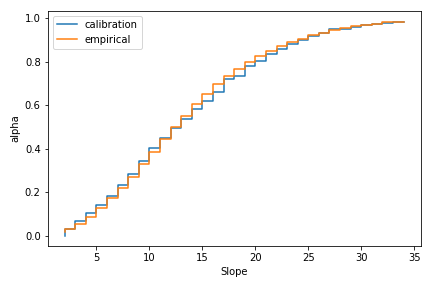
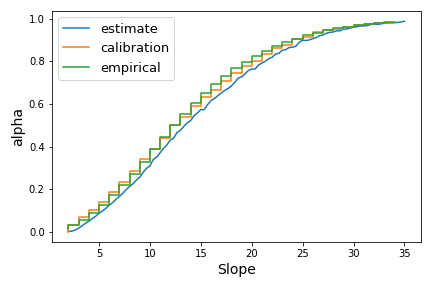
update calibration

diff --git a/calibration.py b/calibration.py
@@ -54,7 +54,7 @@ def get_args(debug):
 #%%
 def main():
     #%%
-    config = vars(get_args(debug=True)) # default configuration
+    config = vars(get_args(debug=False)) # default configuration
     
     """model load"""
     artifact = wandb.use_artifact('anseunghwan/DistVAE/DistVAE_{}:v{}'.format(config["dataset"], config["num"]), type='model')
@@ -125,15 +125,33 @@ def main():
     
     df = base.iloc[:45000] # train
     #%%
-    """Quantile Estimation with sampling mechanism"""
     MC = 5000
-    j = 2
+    
+    """Quantile Estimation with sampling mechanism"""
+    n = 100
+    x_linspace_est = np.linspace(
+        np.quantile(dataset.x_data[:, j], q=0.01),
+        np.quantile(dataset.x_data[:, j], q=0.99),
+        n)
+    
+    # for comparison
+    j = 2 # Slope
+    alpha_est = torch.zeros((len(x_linspace_est), 1))
+    for _ in tqdm.tqdm(range(MC), desc="Estimate CDF..."):
+        randn = torch.randn(len(x_linspace_est), config["latent_dim"]) # prior
+        with torch.no_grad():
+            gamma, beta, _ = model.quantile_parameter(randn)
+            x_tmp = torch.from_numpy(x_linspace_est[:, None]).clone()
+            alpha_tilde = model._quantile_inverse(x_tmp, gamma, beta, j)
+            alpha_est += alpha_tilde
+    alpha_est /= MC
+    
+    x_linspace_est = x_linspace_est * dataset.std[j] + dataset.mean[j]
+    #%%
+    """Calibration Step 1. Estimate F(x + 0.5), F(x - 0.5)"""
     x_linspace = [np.arange(x-0.5, y+0.5, 1) for x, y in zip(
         [np.quantile(df.to_numpy()[:, j], q=0.01)],
         [np.quantile(df.to_numpy()[:, j], q=0.99)])][0]
-    # x_linspace = [np.arange(x-0.5, y+0.5, 1) for x, y in zip(
-    #     [np.quantile(df.to_numpy()[:, k], q=0.01) for k in range(len(dataset.continuous))],
-    #     [np.quantile(df.to_numpy()[:, k], q=0.99) for k in range(len(dataset.continuous))])]
     
     alpha_hat = torch.zeros((len(x_linspace), 1))
     for _ in tqdm.tqdm(range(MC), desc="Estimate CDF..."):
@@ -146,66 +164,40 @@ def main():
             alpha_tilde = model._quantile_inverse(x_tmp, gamma, beta, j)
             alpha_hat += alpha_tilde
     alpha_hat /= MC
-    # alpha_hat = []
-    # for j in range(len(dataset.continuous)):
-    #     _alpha_hat = torch.zeros((len(x_linspace[j]), 1))
-    #     for _ in tqdm.tqdm(range(MC), desc="Estimate CDF..."):
-    #         randn = torch.randn(len(x_linspace[j]), config["latent_dim"]) # prior
-    #         with torch.no_grad():
-    #             gamma, beta, _ = model.quantile_parameter(randn)
-    #             x_tmp = torch.from_numpy(x_linspace[j][:, None]).clone()
-    #             x_tmp -= dataset.mean.to_numpy()[j]
-    #             x_tmp /= dataset.std.to_numpy()[j]
-    #             alpha_tilde = model._quantile_inverse(x_tmp, gamma, beta, j)
-    #             _alpha_hat += alpha_tilde
-    #     alpha_hat.append(_alpha_hat)
-    # alpha_hat = [x / MC for x in alpha_hat]
-    #%%
-    """calibration"""
+    
     x_linspace = [np.arange(x, y, 1) for x, y in zip(
-        [np.quantile(df.to_numpy()[:, k], q=0.01) for k in range(len(dataset.continuous))],
-        [np.quantile(df.to_numpy()[:, k], q=0.99) for k in range(len(dataset.continuous))])]
-    # x_linspace = [np.arange(x, y, 1) for x, y in zip(
-    #     [np.quantile(df.to_numpy()[:, k], q=0.01) for k in range(len(dataset.continuous))],
-    #     [np.quantile(df.to_numpy()[:, k], q=0.99) for k in range(len(dataset.continuous))])]
-    
-    alpha_cal = []
-    for j in range(len(alpha_hat)):
-        cal = []
-        for i in range(len(alpha_hat[j])-1):
-            cal.append((alpha_hat[j][i+1] - alpha_hat[j][i]).item())
-        alpha_cal.append(np.cumsum(cal))
-    
-    alpha_cal2 = []
-    for j in range(len(alpha_cal)):
-        cal2 = [0]
-        for i in range(1, len(alpha_cal[j])):
-            if alpha_cal[j][i] < cal2[-1]:
-                cal2.append(cal2[-1])
-            else:
-                cal2.append(alpha_cal[j][i])
-        alpha_cal2.append(cal2)
+        [np.quantile(df.to_numpy()[:, j], q=0.01)],
+        [np.quantile(df.to_numpy()[:, j], q=0.99)])][0]
     #%%
-    q = np.arange(0.01, 1, 0.01)
-    if config["dataset"] == "covtype":
-        fig, ax = plt.subplots(2, config["CRPS_dim"] // 2 , 
-                               figsize=(3 * config["CRPS_dim"] // 2, 2 * 3))
-    else:
-        raise ValueError('Not supported dataset!')
+    """Calibration Step 2. Quantization F(x) = F(x + 0.5) - F(x - 0.5)"""
+    alpha_cal = []
+    for i in range(len(alpha_hat)-1):
+        alpha_cal.append((alpha_hat[i+1] - alpha_hat[i]).item())
+    alpha_cal = np.cumsum(alpha_cal)
+    #%%
+    """Calibration Step 3. Ensure monotonicity"""
+    alpha_mono = [0]
+    for i in range(1, len(alpha_cal)):
+        if alpha_cal[i] < alpha_mono[-1]:
+            alpha_mono.append(alpha_mono[-1])
+        else:
+            alpha_mono.append(alpha_cal[i])
+    #%%
+    fig, ax = plt.subplots(1, 1, figsize=(6, 4))
     
-    for k, v in enumerate(dataset.continuous):
-        ax.flatten()[k].plot(x_linspace[k], alpha_cal2[k], label="calibration")
-        emp = [stats.percentileofscore(
-            df[dataset.continuous].to_numpy()[:, k],
-            x) * 0.01 for x in x_linspace[k]]
-        ax.flatten()[k].plot(x_linspace[k], emp, label="empirical")
-        # ax.flatten()[k].plot(np.quantile(df[dataset.continuous].to_numpy()[:, k], q=q), q, label="empirical")
-        ax.flatten()[k].set_xlabel(v)
-        ax.flatten()[k].set_ylabel('alpha')
-    plt.legend()
+    ax.plot(x_linspace_est, alpha_est, label="estimate")
+    ax.step(x_linspace, alpha_mono, label="calibration")
+    emp = [stats.percentileofscore(
+        df[dataset.continuous].to_numpy()[:, j],
+        x) * 0.01 for x in x_linspace]
+    ax.step(x_linspace, emp, label="empirical")
+    ax.set_xlabel(dataset.continuous[j], fontsize=14)
+    ax.set_ylabel('alpha', fontsize=14)
+    
+    plt.legend(fontsize=13)
     plt.tight_layout()
     plt.savefig('./assets/{}/{}_CDF_calibration.png'.format(config["dataset"], config["dataset"]))
-    plt.show()
+    # plt.show()
     plt.close()
     wandb.log({'CDF calibration': wandb.Image(fig)})
     #%%
